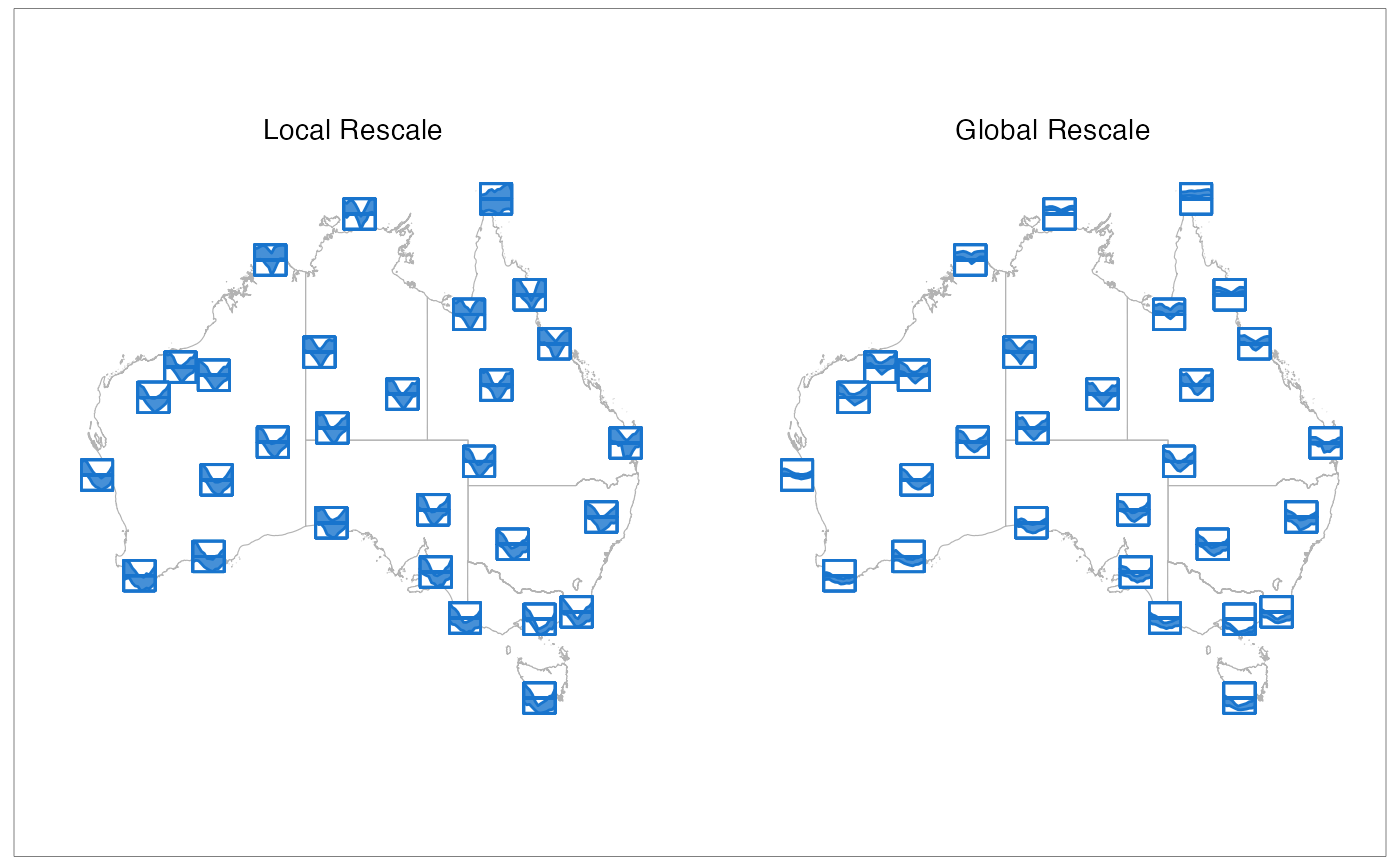
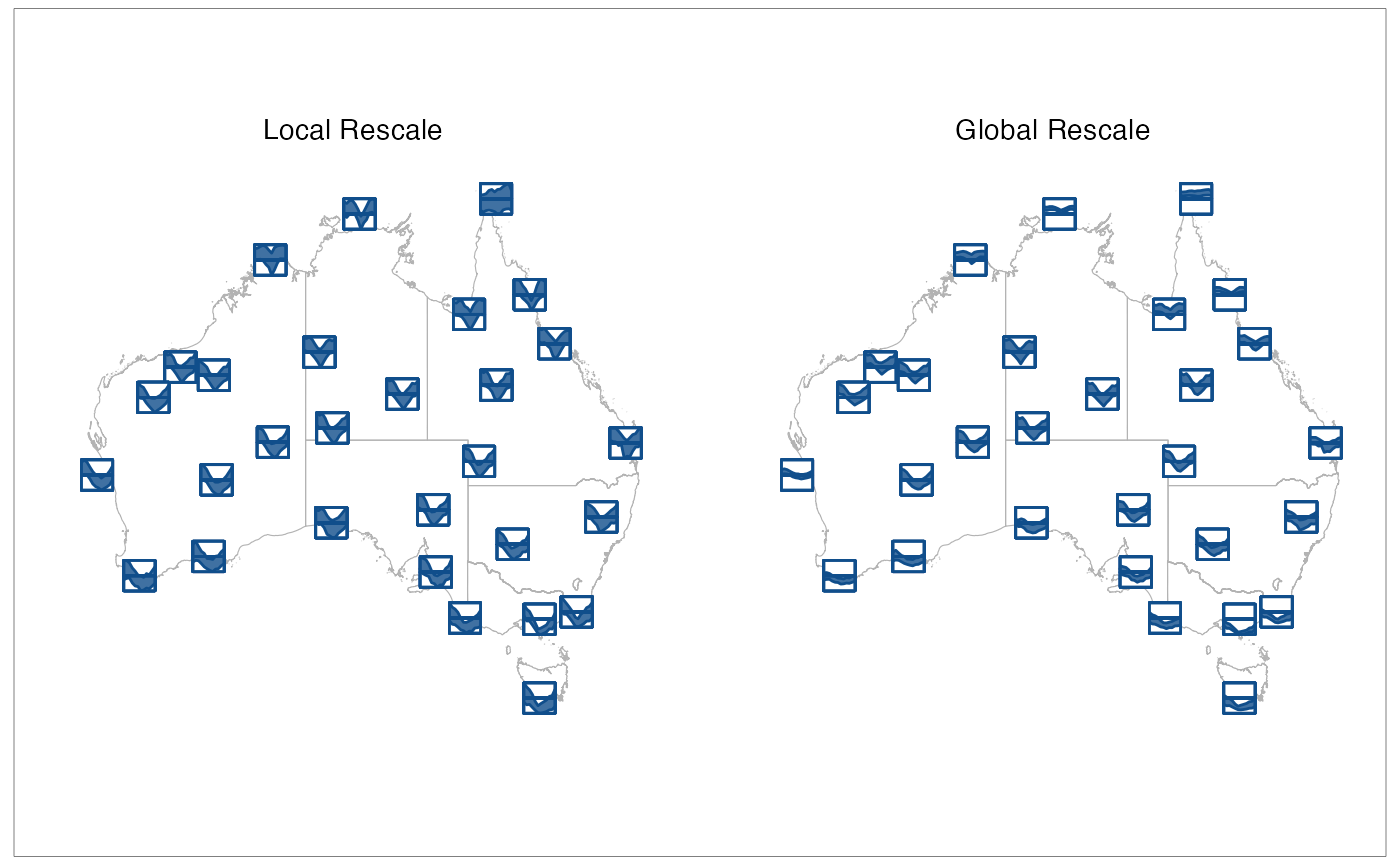
Fix README hyperlink

diff --git a/docs/articles/Examples.html b/docs/articles/Examples.html
@@ -205,9 +205,9 @@ unique options.</p>
 <span>              x_minor <span class="op">=</span> <span class="va">month</span>, ymin_minor <span class="op">=</span> <span class="va">tmin</span>, ymax_minor <span class="op">=</span> <span class="va">tmax</span><span class="op">)</span><span class="op">)</span> <span class="op">+</span></span>
 <span>  <span class="fu"><a href="https://ggplot2.tidyverse.org/reference/ggsf.html" class="external-link">geom_sf</a></span><span class="op">(</span>data <span class="op">=</span> <span class="va">abs_ste</span>, color <span class="op">=</span> <span class="fu"><a href="https://rdrr.io/r/grDevices/gray.html" class="external-link">grey</a></span><span class="op">(</span><span class="fl">0.7</span><span class="op">)</span>, fill <span class="op">=</span> <span class="cn">NA</span>,</span>
 <span>          inherit.aes <span class="op">=</span> <span class="cn">FALSE</span><span class="op">)</span>  <span class="op">+</span></span>
-<span>  <span class="fu"><a href="../reference/add_glyph_boxes.html">add_glyph_boxes</a></span><span class="op">(</span>color <span class="op">=</span> <span class="st">"dodgerblue3"</span><span class="op">)</span> <span class="op">+</span></span>
-<span>  <span class="fu"><a href="../reference/add_ref_lines.html">add_ref_lines</a></span><span class="op">(</span>color <span class="op">=</span> <span class="st">"dodgerblue3"</span><span class="op">)</span> <span class="op">+</span></span>
-<span>  <span class="fu"><a href="../reference/geom_glyph_ribbon.html">geom_glyph_ribbon</a></span><span class="op">(</span>global_rescale <span class="op">=</span> <span class="cn">FALSE</span>, color <span class="op">=</span> <span class="st">"dodgerblue3"</span>, fill <span class="op">=</span> <span class="st">"dodgerblue3"</span><span class="op">)</span> <span class="op">+</span></span>
+<span>  <span class="fu"><a href="../reference/add_glyph_boxes.html">add_glyph_boxes</a></span><span class="op">(</span>color <span class="op">=</span> <span class="st">"dodgerblue4"</span><span class="op">)</span> <span class="op">+</span></span>
+<span>  <span class="fu"><a href="../reference/add_ref_lines.html">add_ref_lines</a></span><span class="op">(</span>color <span class="op">=</span> <span class="st">"dodgerblue4"</span><span class="op">)</span> <span class="op">+</span></span>
+<span>  <span class="fu"><a href="../reference/geom_glyph_ribbon.html">geom_glyph_ribbon</a></span><span class="op">(</span>global_rescale <span class="op">=</span> <span class="cn">FALSE</span>, color <span class="op">=</span> <span class="st">"dodgerblue4"</span>, fill <span class="op">=</span> <span class="st">"dodgerblue4"</span><span class="op">)</span> <span class="op">+</span></span>
 <span>  <span class="fu">theme_map</span><span class="op">(</span><span class="op">)</span> <span class="op">+</span></span>
 <span>  <span class="fu"><a href="https://ggplot2.tidyverse.org/reference/ggsf.html" class="external-link">coord_sf</a></span><span class="op">(</span>xlim <span class="op">=</span> <span class="fu"><a href="https://rdrr.io/r/base/c.html" class="external-link">c</a></span><span class="op">(</span><span class="fl">110</span>,<span class="fl">155</span><span class="op">)</span><span class="op">)</span> <span class="op">+</span></span>
 <span>  <span class="fu"><a href="https://ggplot2.tidyverse.org/reference/labs.html" class="external-link">labs</a></span><span class="op">(</span>title <span class="op">=</span> <span class="st">"Local Rescale"</span><span class="op">)</span> <span class="op">+</span></span>
@@ -220,9 +220,9 @@ unique options.</p>
 <span>              x_minor <span class="op">=</span> <span class="va">month</span>, ymin_minor <span class="op">=</span> <span class="va">tmin</span>, ymax_minor <span class="op">=</span> <span class="va">tmax</span><span class="op">)</span><span class="op">)</span> <span class="op">+</span></span>
 <span>  <span class="fu"><a href="https://ggplot2.tidyverse.org/reference/ggsf.html" class="external-link">geom_sf</a></span><span class="op">(</span>data <span class="op">=</span> <span class="va">abs_ste</span>, color <span class="op">=</span> <span class="fu"><a href="https://rdrr.io/r/grDevices/gray.html" class="external-link">grey</a></span><span class="op">(</span><span class="fl">0.7</span><span class="op">)</span>, fill <span class="op">=</span> <span class="cn">NA</span>,</span>
 <span>          inherit.aes <span class="op">=</span> <span class="cn">FALSE</span><span class="op">)</span>  <span class="op">+</span></span>
-<span>   <span class="fu"><a href="../reference/add_glyph_boxes.html">add_glyph_boxes</a></span><span class="op">(</span>color <span class="op">=</span> <span class="st">"dodgerblue3"</span><span class="op">)</span> <span class="op">+</span></span>
-<span>   <span class="fu"><a href="../reference/add_ref_lines.html">add_ref_lines</a></span><span class="op">(</span>color <span class="op">=</span> <span class="st">"dodgerblue3"</span><span class="op">)</span> <span class="op">+</span></span>
-<span>  <span class="fu"><a href="../reference/geom_glyph_ribbon.html">geom_glyph_ribbon</a></span><span class="op">(</span>global_rescale <span class="op">=</span> <span class="cn">TRUE</span>, color <span class="op">=</span> <span class="st">"dodgerblue3"</span>, fill <span class="op">=</span> <span class="st">"dodgerblue3"</span><span class="op">)</span> <span class="op">+</span></span>
+<span>   <span class="fu"><a href="../reference/add_glyph_boxes.html">add_glyph_boxes</a></span><span class="op">(</span>color <span class="op">=</span> <span class="st">"dodgerblue4"</span><span class="op">)</span> <span class="op">+</span></span>
+<span>   <span class="fu"><a href="../reference/add_ref_lines.html">add_ref_lines</a></span><span class="op">(</span>color <span class="op">=</span> <span class="st">"dodgerblue4"</span><span class="op">)</span> <span class="op">+</span></span>
+<span>  <span class="fu"><a href="../reference/geom_glyph_ribbon.html">geom_glyph_ribbon</a></span><span class="op">(</span>global_rescale <span class="op">=</span> <span class="cn">TRUE</span>, color <span class="op">=</span> <span class="st">"dodgerblue4"</span>, fill <span class="op">=</span> <span class="st">"dodgerblue4"</span><span class="op">)</span> <span class="op">+</span></span>
 <span>  <span class="fu">theme_map</span><span class="op">(</span><span class="op">)</span> <span class="op">+</span></span>
 <span>  <span class="fu"><a href="https://ggplot2.tidyverse.org/reference/ggsf.html" class="external-link">coord_sf</a></span><span class="op">(</span>xlim <span class="op">=</span> <span class="fu"><a href="https://rdrr.io/r/base/c.html" class="external-link">c</a></span><span class="op">(</span><span class="fl">110</span>,<span class="fl">155</span><span class="op">)</span><span class="op">)</span> <span class="op">+</span></span>
 <span>  <span class="fu"><a href="https://ggplot2.tidyverse.org/reference/labs.html" class="external-link">labs</a></span><span class="op">(</span>title <span class="op">=</span> <span class="st">"Global Rescale"</span><span class="op">)</span> <span class="op">+</span></span>

diff --git a/docs/index.html b/docs/index.html
@@ -100,7 +100,7 @@
 <h3 id="examples">Examples<a class="anchor" aria-label="anchor" href="#examples"></a>
 </h3>
 <p>Click one of the images below to go to see the code example:</p>
-<p><a href="https://maliny12.github.io/ribbon/article%20s/Examples.html#comparison-between-global-rescale-and-local-rescale" class="external-link"><img width="300" src="https://maliny12.github.io/ribbon/articles/Examples_files/figure-html/unnamed-chunk-3-1.png" alt="Global vs. Local Rescale"></a> <a href="https://maliny12.github.io/ribbon/articles/Examples.html#mapping-precipitation-across-australia-with-glyphs" class="external-link"><img width="300" src="https://maliny12.github.io/ribbon/articles/Examples_files/figure-html/unnamed-chunk-4-1.png" alt="Mapping precipitation"></a> <a href="https://maliny12.github.io/ribbon/articles/Examples.html#comparative-visualization-by-factors-across-years" class="external-link"><img width="300" src="https://maliny12.github.io/ribbon/articles/Examples_files/figure-html/unnamed-chunk-5-1.png" alt="Factor across year"></a> <a href="https://maliny12.github.io/ribbon/articles/Examples.html#integrating-legends-in-map-visualizations" class="external-link"><img width="300" src="https://maliny12.github.io/ribbon/articles/Examples_files/figure-html/asepx-1.png" alt="Add legend"></a></p>
+<p><a href="https://maliny12.github.io/ribbon/articles/Examples.html#comparison-between-global-rescale-and-local-rescale" class="external-link"><img width="300" src="https://maliny12.github.io/ribbon/articles/Examples_files/figure-html/unnamed-chunk-3-1.png" alt="Global vs. Local Rescale"></a> <a href="https://maliny12.github.io/ribbon/articles/Examples.html#mapping-precipitation-across-australia-with-glyphs" class="external-link"><img width="300" src="https://maliny12.github.io/ribbon/articles/Examples_files/figure-html/unnamed-chunk-4-1.png" alt="Mapping precipitation"></a> <a href="https://maliny12.github.io/ribbon/articles/Examples.html#comparative-visualization-by-factors-across-years" class="external-link"><img width="300" src="https://maliny12.github.io/ribbon/articles/Examples_files/figure-html/unnamed-chunk-5-1.png" alt="Factor across year"></a> <a href="https://maliny12.github.io/ribbon/articles/Examples.html#integrating-legends-in-map-visualizations" class="external-link"><img width="300" src="https://maliny12.github.io/ribbon/articles/Examples_files/figure-html/asepx-1.png" alt="Add legend"></a></p>
 </div>
 </div>
   </main><aside class="col-md-3"><div class="license">

diff --git a/README.md b/README.md
@@ -51,7 +51,7 @@ page to learn more about how to use ribbon in your project.
 
 Click one of the images below to go to see the code example:
 
-<a href="https://maliny12.github.io/ribbon/article s/Examples.html#comparison-between-global-rescale-and-local-rescale"><img width="300" src="https://maliny12.github.io/ribbon/articles/Examples_files/figure-html/unnamed-chunk-3-1.png" alt="Global vs. Local Rescale"></img></a>
+<a href="https://maliny12.github.io/ribbon/articles/Examples.html#comparison-between-global-rescale-and-local-rescale"><img width="300" src="https://maliny12.github.io/ribbon/articles/Examples_files/figure-html/unnamed-chunk-3-1.png" alt="Global vs. Local Rescale"></img></a>
 <a href="https://maliny12.github.io/ribbon/articles/Examples.html#mapping-precipitation-across-australia-with-glyphs"><img width="300" src="https://maliny12.github.io/ribbon/articles/Examples_files/figure-html/unnamed-chunk-4-1.png" alt="Mapping precipitation"></img></a>
 <a href="https://maliny12.github.io/ribbon/articles/Examples.html#comparative-visualization-by-factors-across-years"><img width="300" src="https://maliny12.github.io/ribbon/articles/Examples_files/figure-html/unnamed-chunk-5-1.png" alt="Factor across year"></img></a>
 <a href="https://maliny12.github.io/ribbon/articles/Examples.html#integrating-legends-in-map-visualizations"><img width="300" src="https://maliny12.github.io/ribbon/articles/Examples_files/figure-html/asepx-1.png" alt="Add legend"></img></a>
